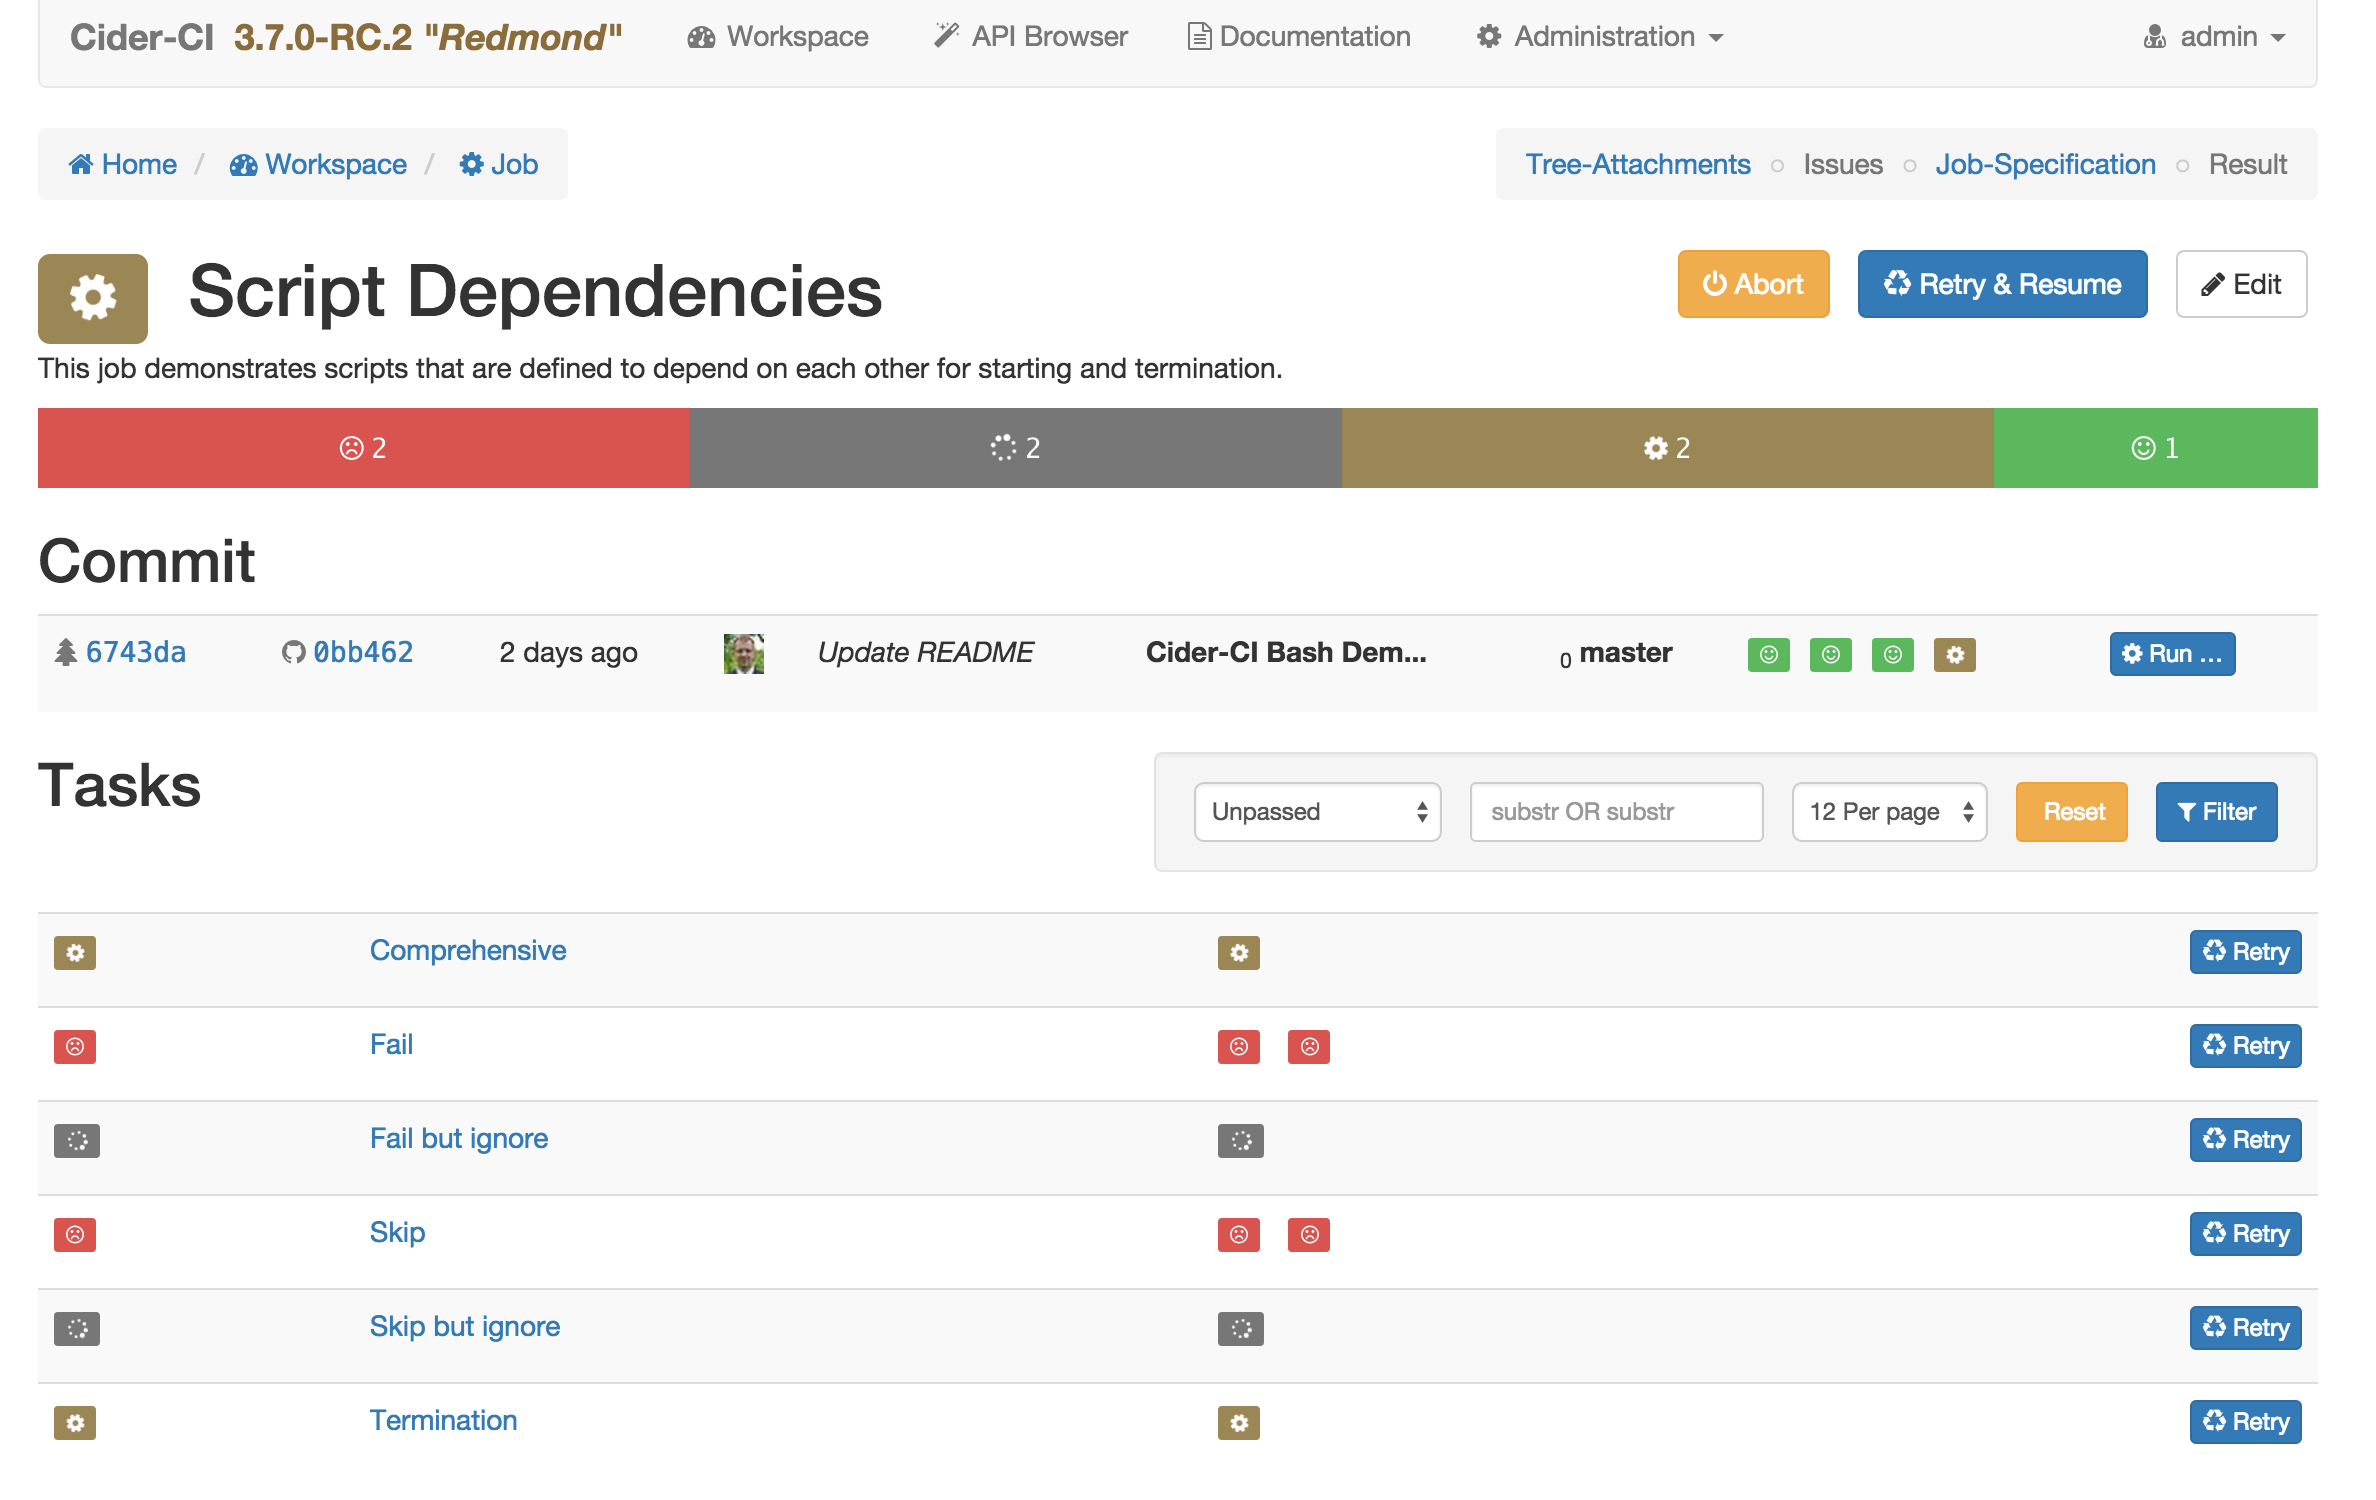
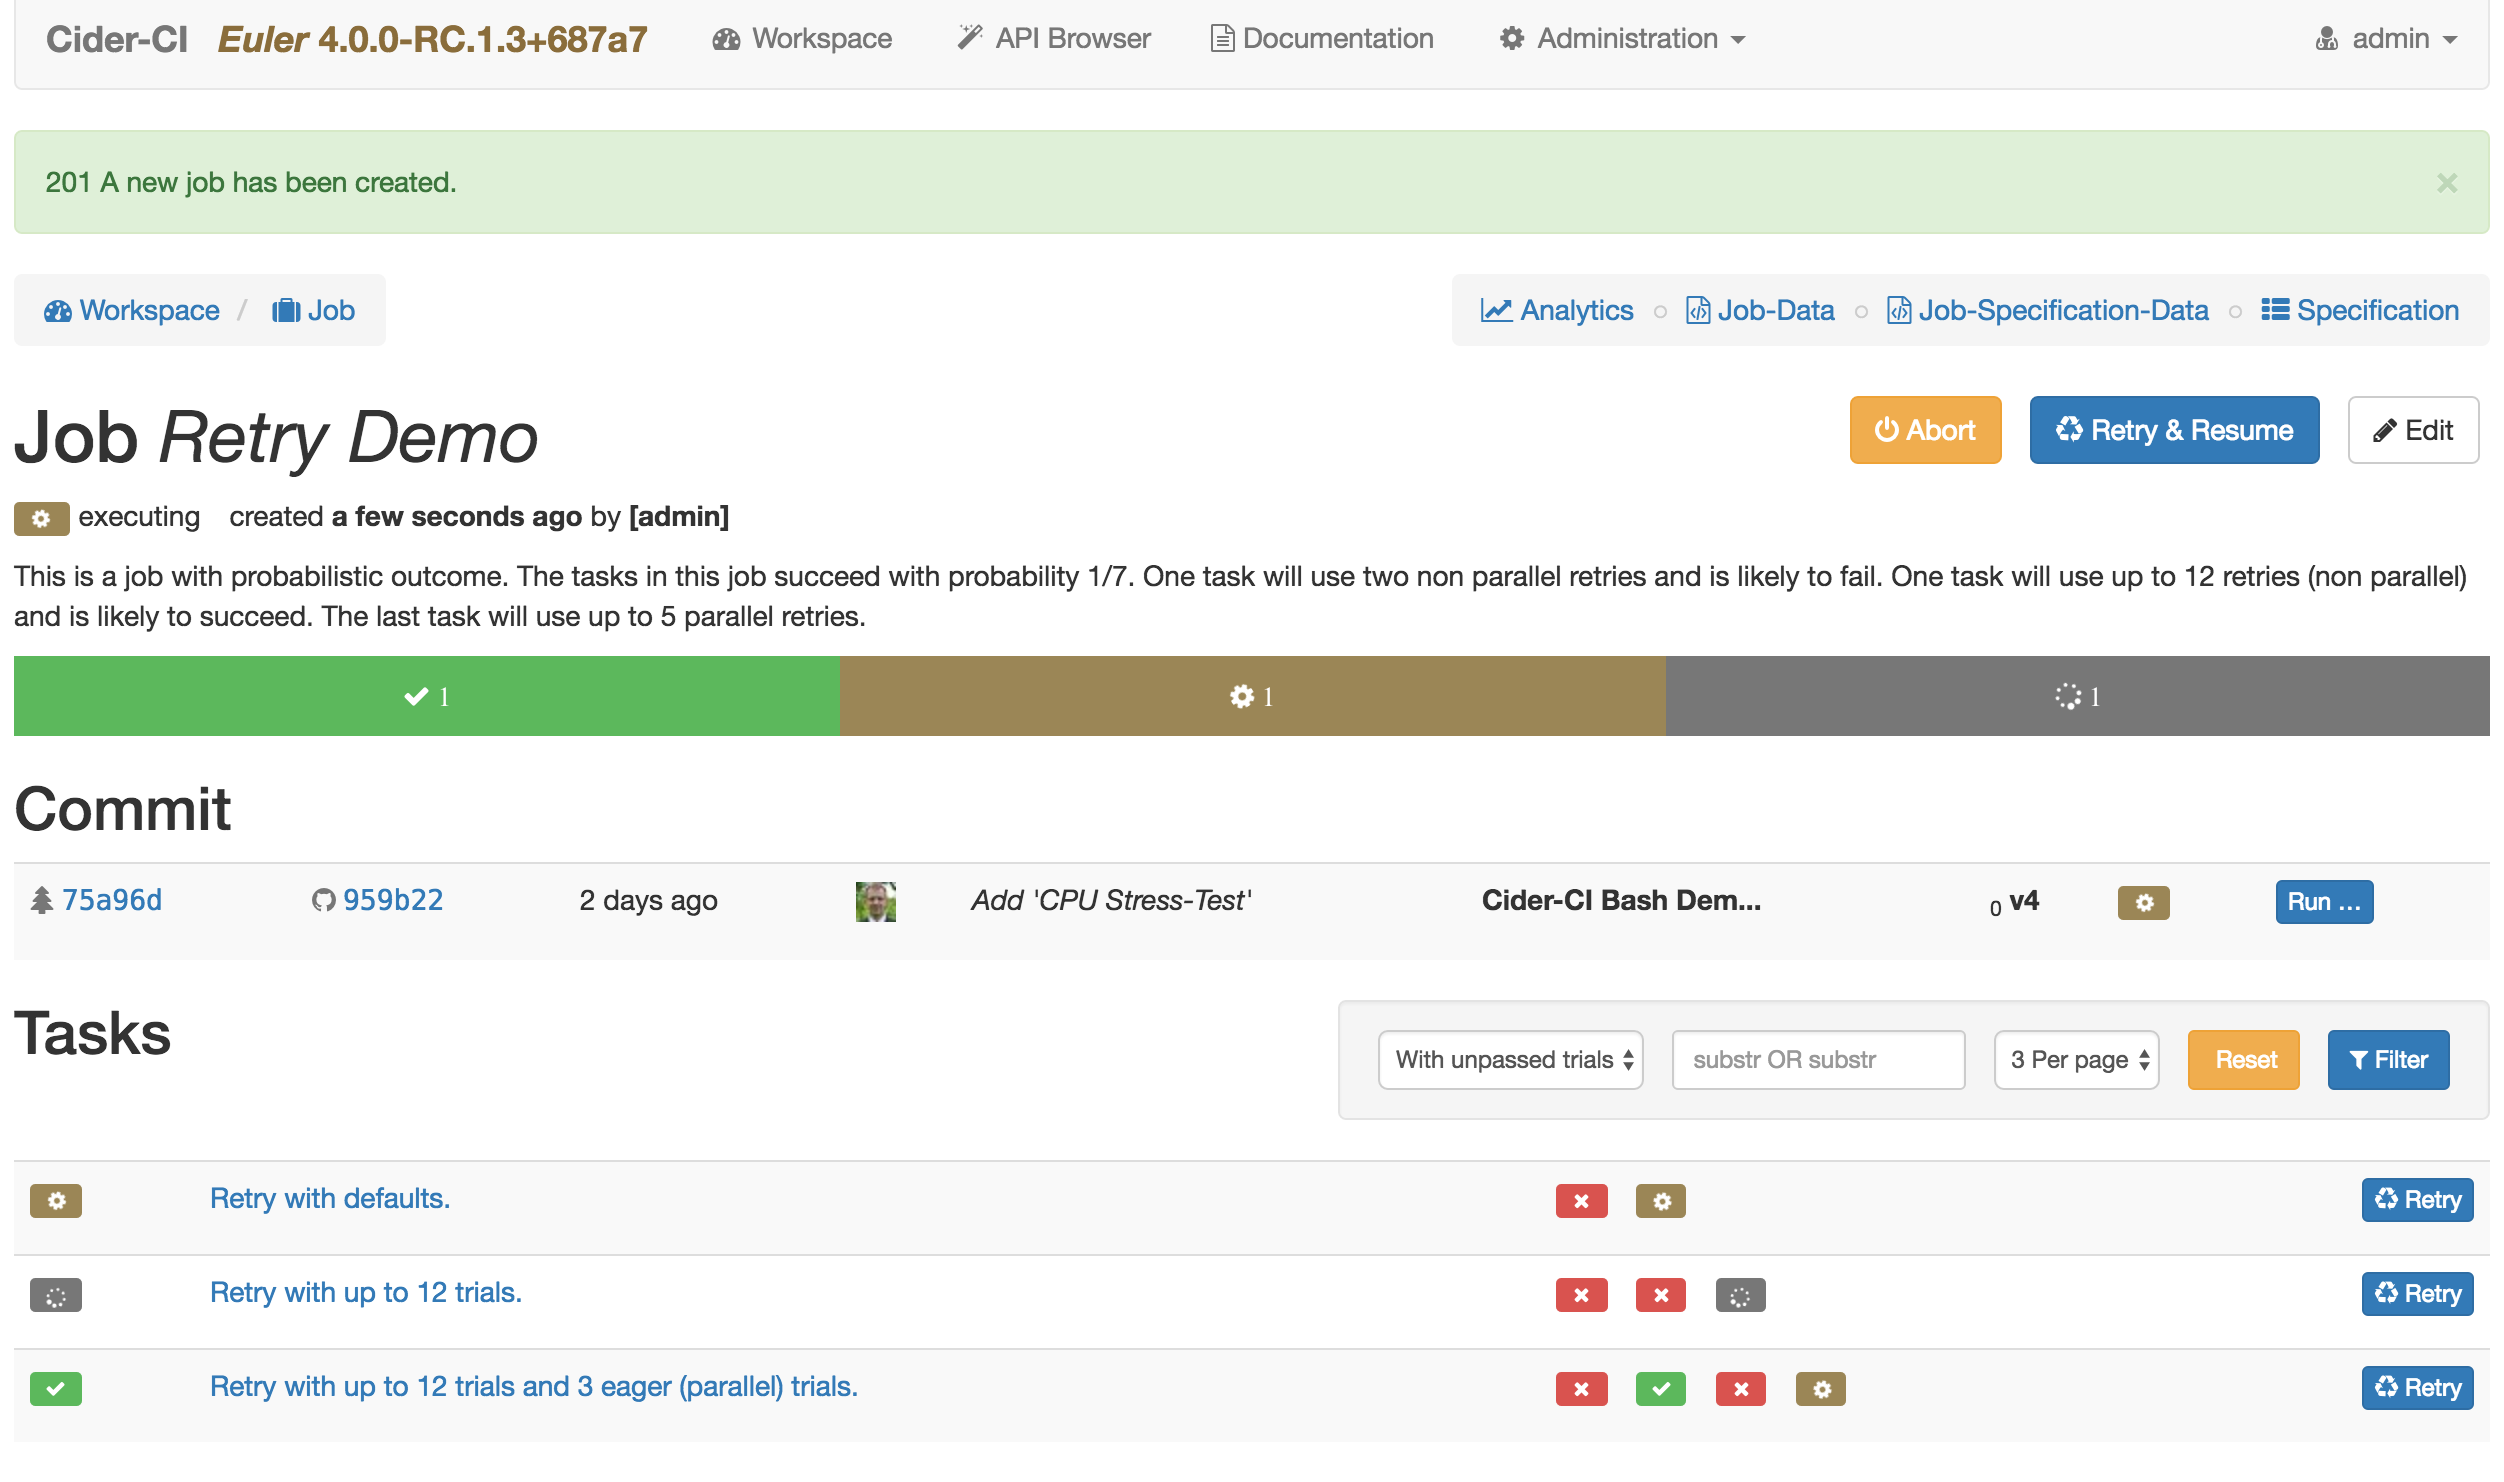
Update the quick start guide

diff --git a/source/introduction/quick-start/index.md b/source/introduction/quick-start/index.md
@@ -6,20 +6,23 @@ title: Quick Start
 # Cider-CI Quick Start Guide
 
 This is a quick start guide to Cider-CI. It takes two commands to install
-a whole Cider-CI Environment. The only requirements are a _Debian 8 - Jessie_
-system with at least 2GB of RAM system and a Internet connection.
+a whole Cider-CI Environment. The only requirements are an _Ubuntu 16.04_ or
+_Debian 8 - Jessie_ system. We recommend 3GB RAM and two cores for the demo
+setup.
 
-We recommend that the system is not accessible from the Internet as it sets
-a default login with a default password. Skip a few steps down to see how
-to change the password after introduction.
+<div class="alert alert-warning">
+  The deploy and set-up procedure is by its nature invasive. We recommend to
+  use a virtual machine for the demo installation.
+</div>
+
+
 
 ## Install
 
-Log in as root to your Jessie system
-and invoke the following two commands:
+Log in as root to your system and invoke the following two commands:
 
     apt-get update && apt-get install curl -y
-    curl https://raw.githubusercontent.com/cider-ci/cider-ci_deploy/master/bin/quick-install.sh | bash
+    curl https://raw.githubusercontent.com/cider-ci/cider-ci_deploy/release/bin/quick-install.sh | bash
 
 Wait until everything is finished. The duration depends on the power of our
 machine and the speed of the Internet connection, 30 Minutes or more are not
@@ -31,10 +34,28 @@ uncommon.
 </div>
 
 
-## Try It Out
+## First Steps
 
-0. Open the `http://IP-OF-YOUR-MACHINE` and sing in with the login `admin` and
-  password `secret`.
+0. Open the `http://IP-OF-YOUR-MACHINE`. You will be redirected to the welcome page.
+
+    [![Quick Start - Welcome Page](/introduction/quick-start/welcome.png){: .quick-start}](/introduction/quick-start/welcome.png)
+
+
+0. Click the _Sign in with password_ button, and then provide the credentials. Use `admin`
+  as the login. You can find the password in the terminal output of the install script:
+
+        ok: [demo] => {
+            "ci_master_secret": "7BFdI0BOD1Qz4uqA2HEzF9cOyJ5Aa4cfzh8mGLFV"
+
+    If that is not available you can find it through the following command:
+
+        root@xenial-16:~# cat /tmp/cider-ci/deploy/inventories/demo/master_secret.txt
+        7BFdI0BOD1Qz4uqA2HEzF9cOyJ5Aa4cfzh8mGLFV
+
+    <div class="alert alert-warning">
+      If you rerun the demo setup with the command from above a new `ci_master_secret`
+      and a new password for `admin` will be set.
+    </div>
 
     [![Quick Start - Sign-in](/introduction/quick-start/sign-in.png){: .quick-start}](/introduction/quick-start/sign-in.png)
 
@@ -43,17 +64,16 @@ uncommon.
 
     [![Quick Start - Workspace](/introduction/quick-start/workspace.png){: .quick-start}](/introduction/quick-start/workspace.png)
 
-0. Run and watch some of the provided jobs.
+0. Run and watch some of the provided jobs. Maybe start with the "Retry Demo":
 
     [![Quick Start - Job](/introduction/quick-start/job.png){: .quick-start}](/introduction/quick-start/job.png)
 
-## Change The Password
+    {: .alert.alert-warning}
+    It is possible to run almost all of the provided jobs. Some
+    will not succeed because their final state is not deterministic - like
+    the "Retry Demo". Some will fail because they are designed to fail,
+    and some are designed not start but cause an error.
 
-Go to _Administration_ → _Users_ → _[admin]_ and change the password. Your
-session will **immediately become invalid** - this is a security feature - and
-you will need to sign in again with the new password.
-
-[![Quick Start - Change Password](/introduction/quick-start/change-password.png){: .quick-start}](/introduction/quick-start/change-password.png)
 
 
 
